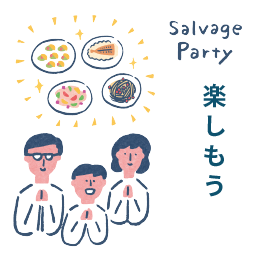
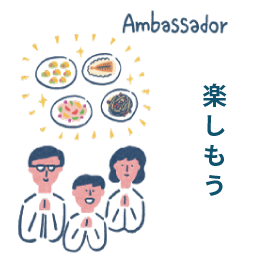
fix image

diff --git a/functions.php b/functions.php
@@ -638,7 +638,7 @@ function create_pages_and_setting() {
           'post_parent'   => get_page_by_path('action')->ID,
         ),
         array(
-          'post_title'    => 'パーティを開く',
+          'post_title'    => 'サルベージアンバサダーになる',
           'post_name'     => 'open',
           'post_status'   => 'publish',
           'post_type'     => 'page',
